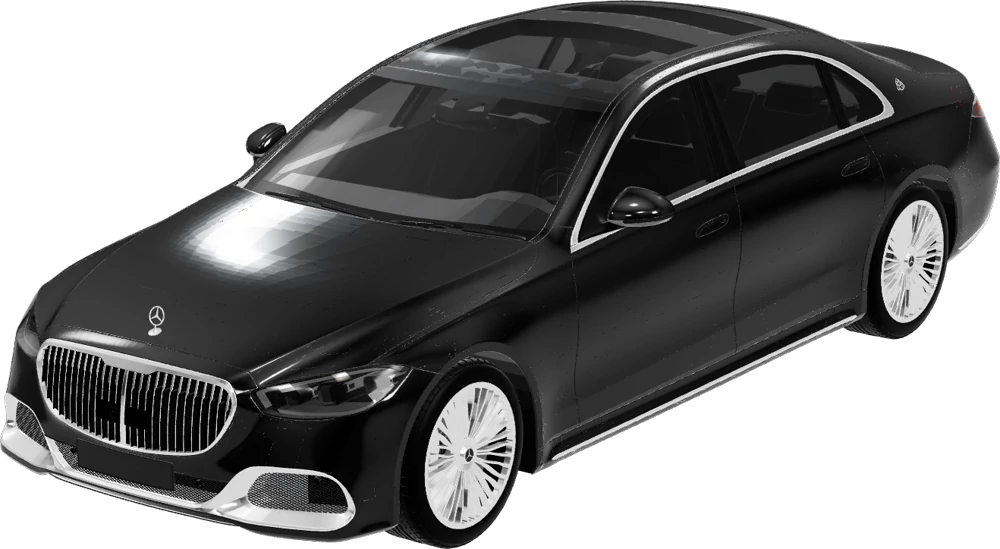
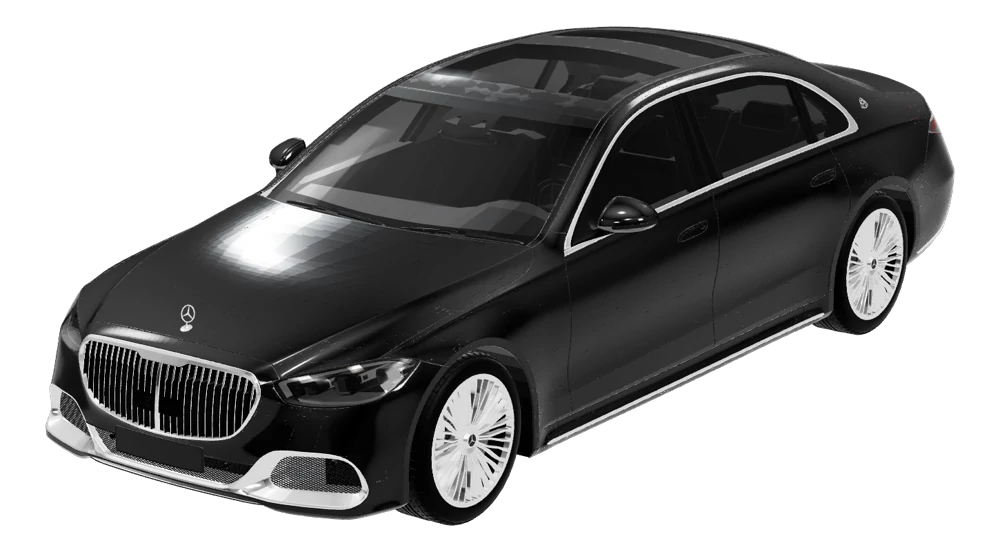
Swap the bands, and stop the saloon reading as cut off
Order is now transfer (car) then arrival (aircraft), with the flight band
closing the page.

The swap broke an assumption I had not written down: --p is normalised against
the progress reachable at maximum scroll, so whichever band is last actually
reaches 1 and runs its full travel. At -7svh the aircraft then climbed into its
own headline — 34-39% covered, where mid-page it had measured 16-23%. The old
figure was only ever safe because the band never reached the end of its arc.
Travel is now -3.5svh, and overlap.js samples the whole pass instead of the
centred moment, which is what hid this in the first place. Measured worst case:
23-27% of the headline (the intended crossing), 0-14% of the ticker.

The car was not clipped by the viewport — measured, it always fit. It was
cropped flush to its own alpha box, so the boot ended exactly on the image edge
and read as sliced against the page. Re-cropped with ~5% air on every side, and
the card's reserve grew from 150 to 206px so it overlaps the rocker rather than
sitting on the wheels.

Changed region(s): [[0.0, 0.0, 1.0, 1.0], [0.806, 0.3097, 0.837, 0.3406], [0.682, 0.4026, 0.713, 0.4335]]

diff --git a/public/css/app.css b/public/css/app.css
@@ -1269,9 +1269,13 @@ select.input option{background:#fff;color:var(--txt)}
      now, so a percentage moved the aircraft whenever the copy changed. */
   left:50%;top:128px;
   width:min(43%,190px);
+  /* The band is the last section again, so the full arc is now reachable and
+     the aircraft climbs its whole travel. At -7svh that put it into the
+     headline at the end of the page — the earlier figure was only safe because
+     the band sat mid-page and never reached --p=1. */
   transform:
-    translate3d(-50%, calc(var(--p,0) * -7svh + 3svh), 0)
-    scale(calc(1 + var(--p,0) * .06));
+    translate3d(-50%, calc(var(--p,0) * -3.5svh + 1.5svh), 0)
+    scale(calc(1 + var(--p,0) * .05));
   will-change:transform;
   pointer-events:none;
 }
@@ -1312,15 +1316,17 @@ select.input option{background:#fff;color:var(--txt)}
    object where the jet was a tall one, so it crosses the headline sideways
    instead of rising through it. The car keeps its own reflections and shadow
    from the render; nothing is added on top. */
-/* The saloon is a wide, low object, so it needs less vertical reserve than
-   the jet — and it has no ticker to clear. */
-.carBand{--gapObj:150px}
-.carBand .flyBand__card{margin-top:var(--gapObj,150px)}
+/* The saloon is wide and low where the jet is tall, and it has no ticker to
+   clear — but the card was sitting on its wheels, which read as the car being
+   cut off rather than as a layer. More reserve, so the whole car is visible
+   and the card only overlaps its rocker. */
+.carBand{--gapObj:206px}
+.carBand .flyBand__card{margin-top:var(--gapObj,206px)}
 .carBand .flyBand__title{font-size:clamp(31px,9.4vw,41px)}
 .carBand__car{
   position:absolute;z-index:2;
-  left:50%;top:150px;
-  width:min(90%,400px);
+  left:50%;top:146px;
+  width:min(92%,410px);
   transform:
     translate3d(calc(-50% + (var(--p,0) - .5) * 7vw), 0, 0)
     scale(calc(1 + var(--p,0) * .05));

diff --git a/public/js/app.js b/public/js/app.js
@@ -1402,6 +1402,21 @@
       </button>`).join('')}
     </section>
 
+    <section class="flyBand carBand">
+      <div class="flyBand__head">
+        <div class="eyebrow">${t('carEyebrow')}</div>
+        <h2 class="flyBand__title">${t('carTitle')}</h2>
+      </div>
+      <div class="carBand__car" aria-hidden="true">
+        <img src="./images/3d/car-maybach.webp" alt="" loading="lazy" decoding="async" width="1000" height="552">
+      </div>
+      <div class="flyBand__card">
+        <div class="flyBand__spec"><span>${t('carSpecA')}</span><span>${t('carSpecB')}</span></div>
+        <p>${t('carBody')}</p>
+        <button class="btn btn--primary btn--sm" data-go="concierge">${t('flyCta')}</button>
+      </div>
+    </section>
+
     <section class="flyBand">
       <div class="flyBand__head">
         <div class="eyebrow">${t('flyEyebrow')}</div>
@@ -1429,21 +1444,6 @@
       <div class="flyBand__card">
         <div class="flyBand__spec"><span>${t('flySpecA')}</span><span>${t('flySpecB')}</span></div>
         <p>${t('flyBody')}</p>
-        <button class="btn btn--primary btn--sm" data-go="concierge">${t('flyCta')}</button>
-      </div>
-    </section>
-
-    <section class="flyBand carBand">
-      <div class="flyBand__head">
-        <div class="eyebrow">${t('carEyebrow')}</div>
-        <h2 class="flyBand__title">${t('carTitle')}</h2>
-      </div>
-      <div class="carBand__car" aria-hidden="true">
-        <img src="./images/3d/car-maybach.webp" alt="" loading="lazy" decoding="async" width="1000" height="549">
-      </div>
-      <div class="flyBand__card">
-        <div class="flyBand__spec"><span>${t('carSpecA')}</span><span>${t('carSpecB')}</span></div>
-        <p>${t('carBody')}</p>
         <button class="btn btn--primary btn--sm" data-go="concierge">${t('flyCta')}</button>
       </div>
     </section>

diff --git a/docs/3d-flugzeug.md b/docs/3d-flugzeug.md
@@ -1,7 +1,9 @@
 # Die 3D-Objekte: Jet und Maybach
 
-Auf der Startseite, unter den vier Erlebnis-Bannern, liegt ein Abschnitt, in dem
-ein Flugzeug beim Scrollen durch die Ebenen wandert: die Überschrift liegt
+Auf der Startseite folgen hinter den vier Erlebnis-Bannern zwei Bänder in der
+Reihenfolge **Transfer (Wagen), dann Anreise (Flugzeug)** — das Flugband
+schliesst die Seite ab. In beiden wandert ein Objekt beim Scrollen durch die
+Ebenen: die Überschrift liegt
 **dahinter**, das Laufband und die Infokarte **davor**. Genau dieser
 Sandwich-Effekt ist die ganze Wirkung — deshalb sind es getrennte Elemente und
 kein Hintergrundbild.
@@ -42,11 +44,19 @@ Erst wenn eine frei drehbare Ansicht gewünscht wäre, kippt diese Rechnung.
 ## Bewegung
 
 Der Fortschritt `--p` läuft von 0 (Band betritt den unteren Bildrand) bis 1.
-Weil das Band der letzte Abschnitt der Seite ist, ist der volle Durchlauf gar
-nicht erreichbar — gemessen war bei `0.507` Schluss, das Flugzeug flog nur die
-halbe Strecke. `armFlyBand()` normiert deshalb auf den Fortschritt, der bei
-maximalem Scrollstand tatsächlich erreichbar ist. Steht das Band später einmal
-nicht mehr am Ende, ist dieser Faktor automatisch 1 und ändert nichts.
+Weil das Flugband der letzte Abschnitt der Seite ist, wäre der volle Durchlauf
+sonst gar nicht erreichbar — gemessen war einmal bei `0.507` Schluss, das
+Flugzeug flog nur die halbe Strecke. `armFlyBand()` normiert deshalb auf den
+Fortschritt, der bei maximalem Scrollstand tatsächlich erreichbar ist, und
+treibt **alle** Bänder, nicht nur das erste.
+
+Das hat eine Kehrseite, die beim Vertauschen der Bänder zugebissen hat: sobald
+das Flugband wieder am Seitenende steht, fährt es seinen Steigweg voll aus. Bei
+den vorherigen −7svh landete es damit in der Überschrift — der Wert war nur
+sicher, solange das Band mittig lag und `--p=1` nie erreichte. Deshalb misst
+`overlap.js` jetzt den **gesamten Durchlauf** und nicht mehr nur den mittigen
+Moment, und der Weg steht auf −3,5svh. Gemessen: maximal 23–27 % der
+Überschrift verdeckt (die gewollte Kreuzung), 0–14 % des Laufbands.
 
 Zusätzlich fliegt das Flugzeug unabhängig vom Scrollen: der Wrapper trägt die
 scrollgekoppelte Transformation, das Bild darin eine eigene 7-Sekunden-Schleife
@@ -95,12 +105,14 @@ perspektivisch, Hintergrund transparent.
 - Kamera: perspektivisch, 26°, Front-Dreiviertel leicht von oben. Die Nase des
   Modells zeigt nach **−X**; ein erster Versuch stand auf +X und fotografierte
   den Kofferraum.
-- Auflösung 3000 × 2000, danach auf die Alpha-Bounding-Box beschnitten
-  (`crop=1318:724:772:573`) und auf 1000 px Breite skaliert.
+- Auflösung 3000 × 2000. Der Zuschnitt liegt bewusst **nicht** auf der
+  Alpha-Bounding-Box: randlos beschnitten endete der Kofferraum exakt auf der
+  Bildkante, was am Bildschirmrand wie abgeschnitten aussah. Jetzt mit rund 5 %
+  Luft ringsum (`crop=1450:800:706:535`), dann auf 1000 px Breite skaliert.
 - Achtung: Playwrights `elementHandle.screenshot({clip})` hat den Zuschnitt hier
   **ignoriert** — die Datei kam in voller Leinwandgrösse heraus. Deshalb wird
   die gemessene Box anschliessend mit ffmpeg geschnitten, nicht im Browser.
 
-Ergebnis: `public/images/3d/car-maybach.webp`, 1000 × 549, 64 KB, mit Alpha und
+Ergebnis: `public/images/3d/car-maybach.webp`, 1000 × 552, 55 KB, mit Alpha und
 den Reflexionen aus dem Render. Auch hier trägt das CSS keinen zusätzlichen
 Schatten.
